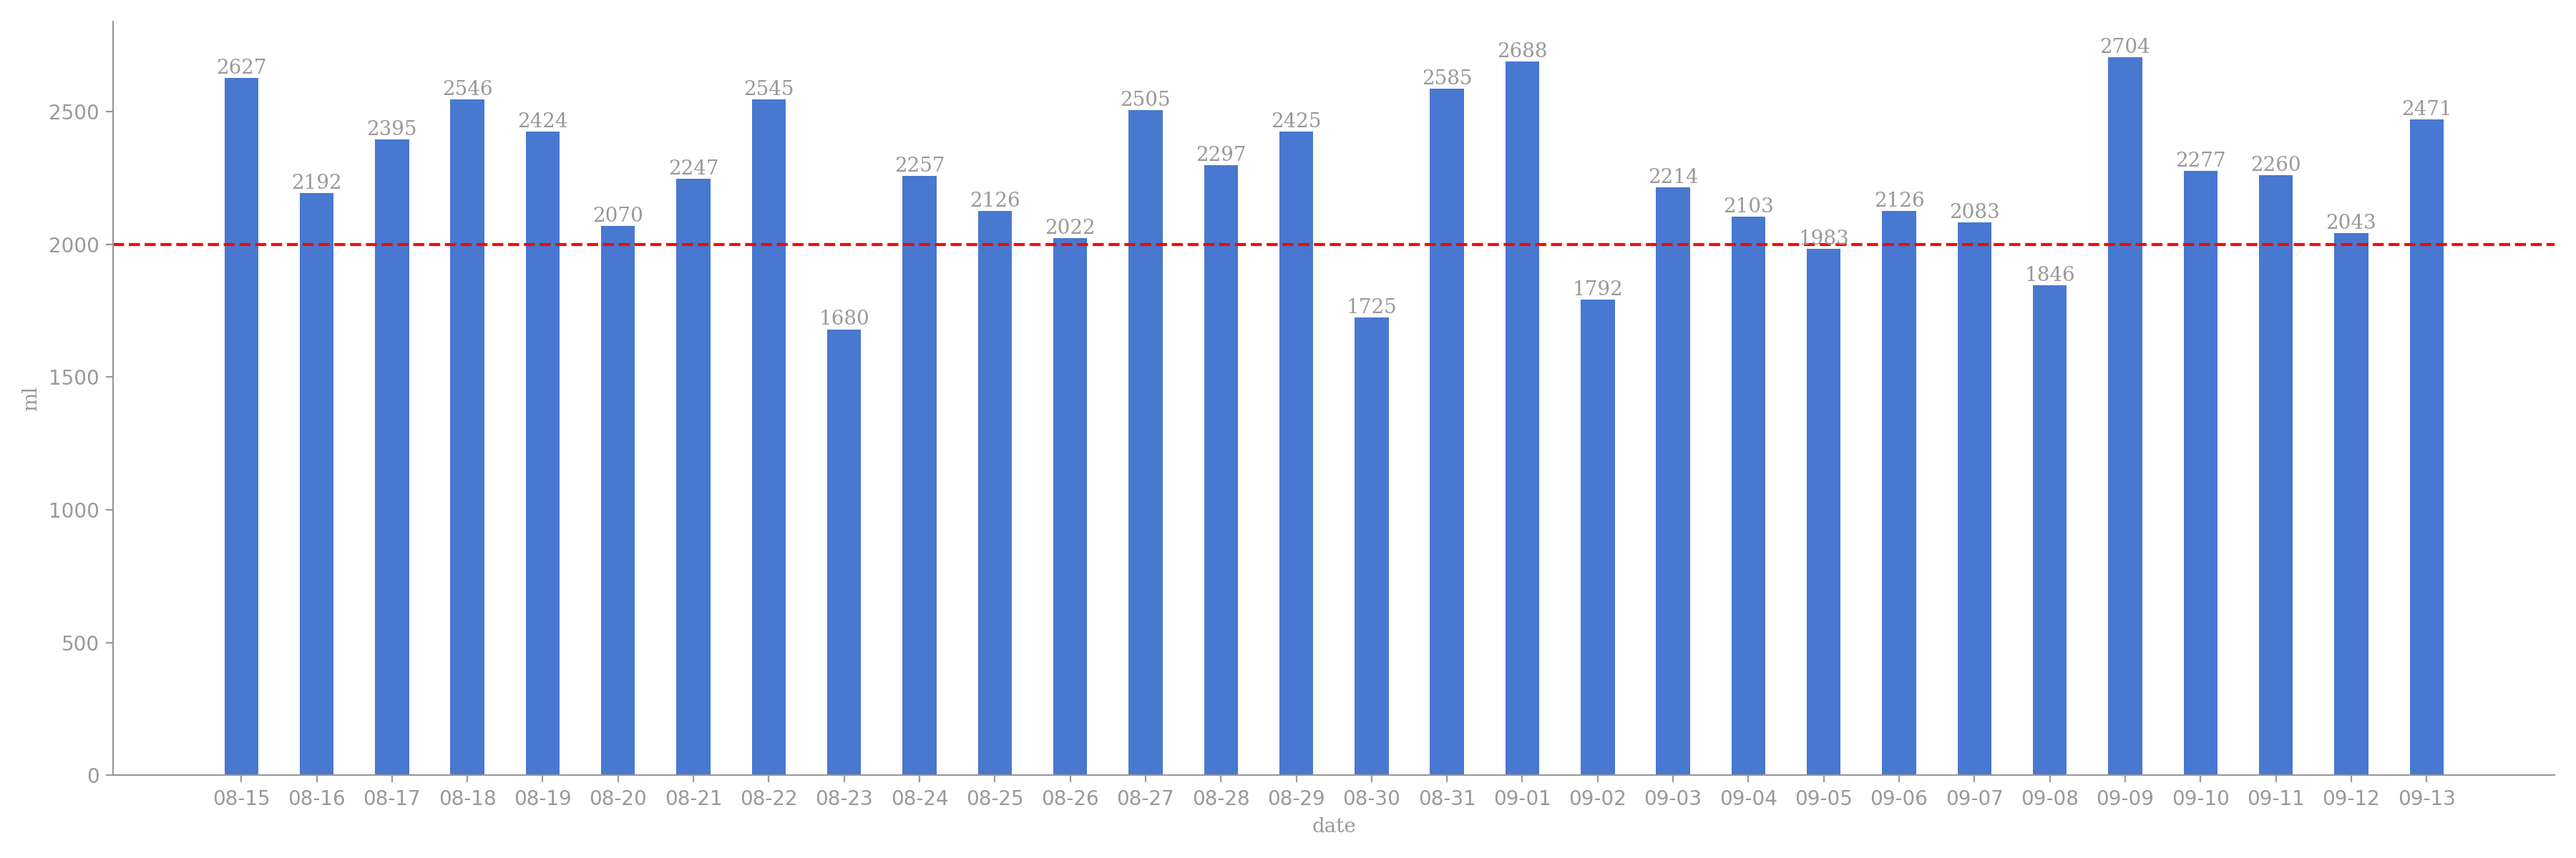
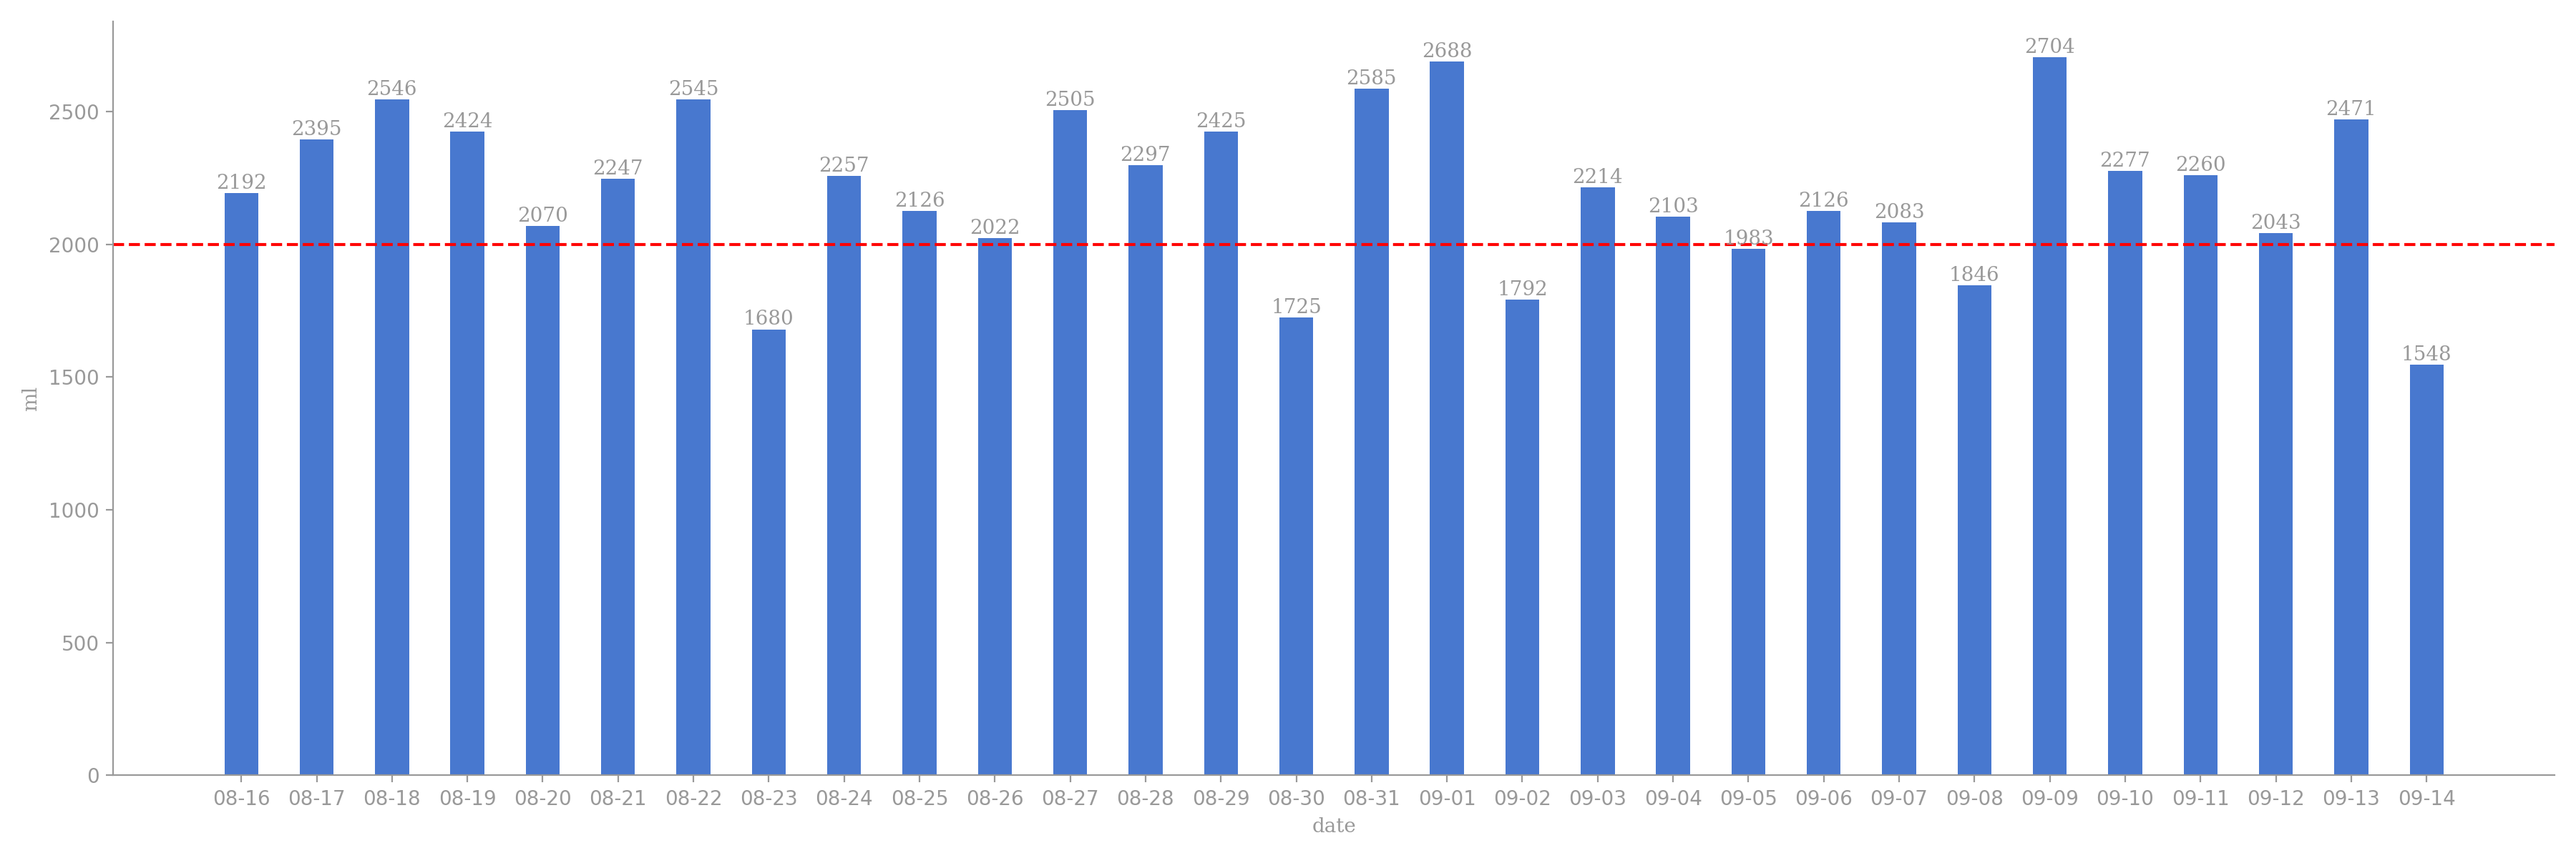
crontab auto git

Changed region(s): [[0.0622, 0.0308, 0.9644, 0.4317]]

diff --git a/README.md b/README.md
@@ -1,17 +1,3 @@
-# 今日饮水数据
-
-<div align=center>
-<img src="today.png" style="zoom: 100%;" />
-
-| 今日总饮水量 | 每小时平均饮水量 |
-| :----: | :----: |
-| 1548 | 119 |
-</div>
-
-| 日期 | 00:21:07 | 01:04:34 | 01:06:27 | 02:24:21 | 11:09:43 | 13:02:49 | 13:45:22 | 14:34:14 | 15:00:55 | 15:24:41 | 15:51:22 | 16:06:02 | 17:03:30 | 17:29:07 | 17:57:51 | 19:01:36 | 19:42:40 | 21:51:58 | 22:18:58 | 22:51:31 | 23:40:02 |
-| :----: | :----: | :----: | :----: | :----: | :----: | :----: | :----: | :----: | :----: | :----: | :----: | :----: | :----: | :----: | :----: | :----: | :----: | :----: | :----: | :----: | :----: |
-| 2026-09-14 | 60 | 12 | 34 | 27 | 55 | 88 | 67 | 102 | 86 | 63 | 39 | 60 | 102 | 58 | 69 | 57 | 20 | 300 | 87 | 102 | 60 |
-
 # 近30日饮水数据
 
 <div align=center>
@@ -19,8 +5,12 @@
 
 | 总饮水量 | 日均饮水量 |
 | :----: | :----: |
-| 67258 | 2241 |
+| 66179 | 2205 |
 </div>
+
+| 日期 | all | 00:21:07 | 01:04:34 | 01:06:27 | 02:24:21 | 11:09:43 | 13:02:49 | 13:45:22 | 14:34:14 | 15:00:55 | 15:24:41 | 15:51:22 | 16:06:02 | 17:03:30 | 17:29:07 | 17:57:51 | 19:01:36 | 19:42:40 | 21:51:58 | 22:18:58 | 22:51:31 | 23:40:02 |
+| :----: | :----: | :----: | :----: | :----: | :----: | :----: | :----: | :----: | :----: | :----: | :----: | :----: | :----: | :----: | :----: | :----: | :----: | :----: | :----: | :----: | :----: | :----: |
+| 2026-09-14 | 1548 | 60 | 12 | 34 | 27 | 55 | 88 | 67 | 102 | 86 | 63 | 39 | 60 | 102 | 58 | 69 | 57 | 20 | 300 | 87 | 102 | 60 |
 
 | 日期 | all | 00:04:52 | 00:08:15 | 00:20:36 | 00:51:34 | 01:17:04 | 02:14:35 | 02:36:35 | 03:25:15 | 03:26:18 | 11:53:49 | 12:18:44 | 12:52:17 | 13:18:08 | 13:43:39 | 15:34:46 | 15:46:13 | 16:27:04 | 16:56:55 | 18:52:07 | 19:20:28 | 20:36:12 | 21:11:02 | 21:29:29 | 22:05:00 | 22:16:14 | 22:23:10 | 22:53:03 | 23:16:39 | 23:42:24 | 23:58:05 |
 | :----: | :----: | :----: | :----: | :----: | :----: | :----: | :----: | :----: | :----: | :----: | :----: | :----: | :----: | :----: | :----: | :----: | :----: | :----: | :----: | :----: | :----: | :----: | :----: | :----: | :----: | :----: | :----: | :----: | :----: | :----: | :----: |
@@ -141,8 +131,4 @@
 | 日期 | all | 00:12:18 | 01:14:24 | 01:48:53 | 02:26:21 | 04:12:40 | 04:13:47 | 09:05:37 | 10:44:46 | 11:34:12 | 12:49:08 | 13:09:20 | 13:53:11 | 14:32:30 | 16:48:04 | 16:57:17 | 17:14:25 | 17:31:07 | 17:44:28 | 17:59:45 | 18:13:25 | 18:40:56 | 18:44:55 | 18:56:05 | 19:17:09 | 19:53:29 | 20:26:30 | 20:45:42 | 21:35:46 | 22:04:33 | 22:19:22 | 22:34:00 | 22:56:04 | 23:11:18 | 23:31:53 |
 | :----: | :----: | :----: | :----: | :----: | :----: | :----: | :----: | :----: | :----: | :----: | :----: | :----: | :----: | :----: | :----: | :----: | :----: | :----: | :----: | :----: | :----: | :----: | :----: | :----: | :----: | :----: | :----: | :----: | :----: | :----: | :----: | :----: | :----: | :----: | :----: |
 | 2026-08-15 | 2627 | 79 | 63 | 84 | 63 | 89 | 79 | 71 | 56 | 54 | 300 | 86 | 86 | 86 | 24 | 63 | 86 | 89 | 74 | 84 | 63 | 29 | 59 | 39 | 86 | 69 | 69 | 54 | 89 | 64 | 89 | 63 | 56 | 92 | 90 |
-
-| 日期 | all | 01:17:51 | 01:34:06 | 09:23:56 | 11:11:49 | 13:48:04 | 14:12:06 | 14:52:16 | 15:16:56 | 15:42:58 | 16:57:48 | 17:11:07 | 17:37:38 | 18:03:46 | 18:25:12 | 18:50:21 | 19:11:11 | 19:43:58 | 19:59:23 | 20:26:04 | 21:28:14 | 22:04:03 | 22:59:12 | 23:17:21 |
-| :----: | :----: | :----: | :----: | :----: | :----: | :----: | :----: | :----: | :----: | :----: | :----: | :----: | :----: | :----: | :----: | :----: | :----: | :----: | :----: | :----: | :----: | :----: | :----: | :----: |
-| 2026-08-14 | 2136 | 73 | 83 | 86 | 57 | 300 | 86 | 56 | 66 | 84 | 64 | 58 | 63 | 50 | 75 | 86 | 79 | 84 | 52 | 73 | 300 | 86 | 89 | 86 |
 
